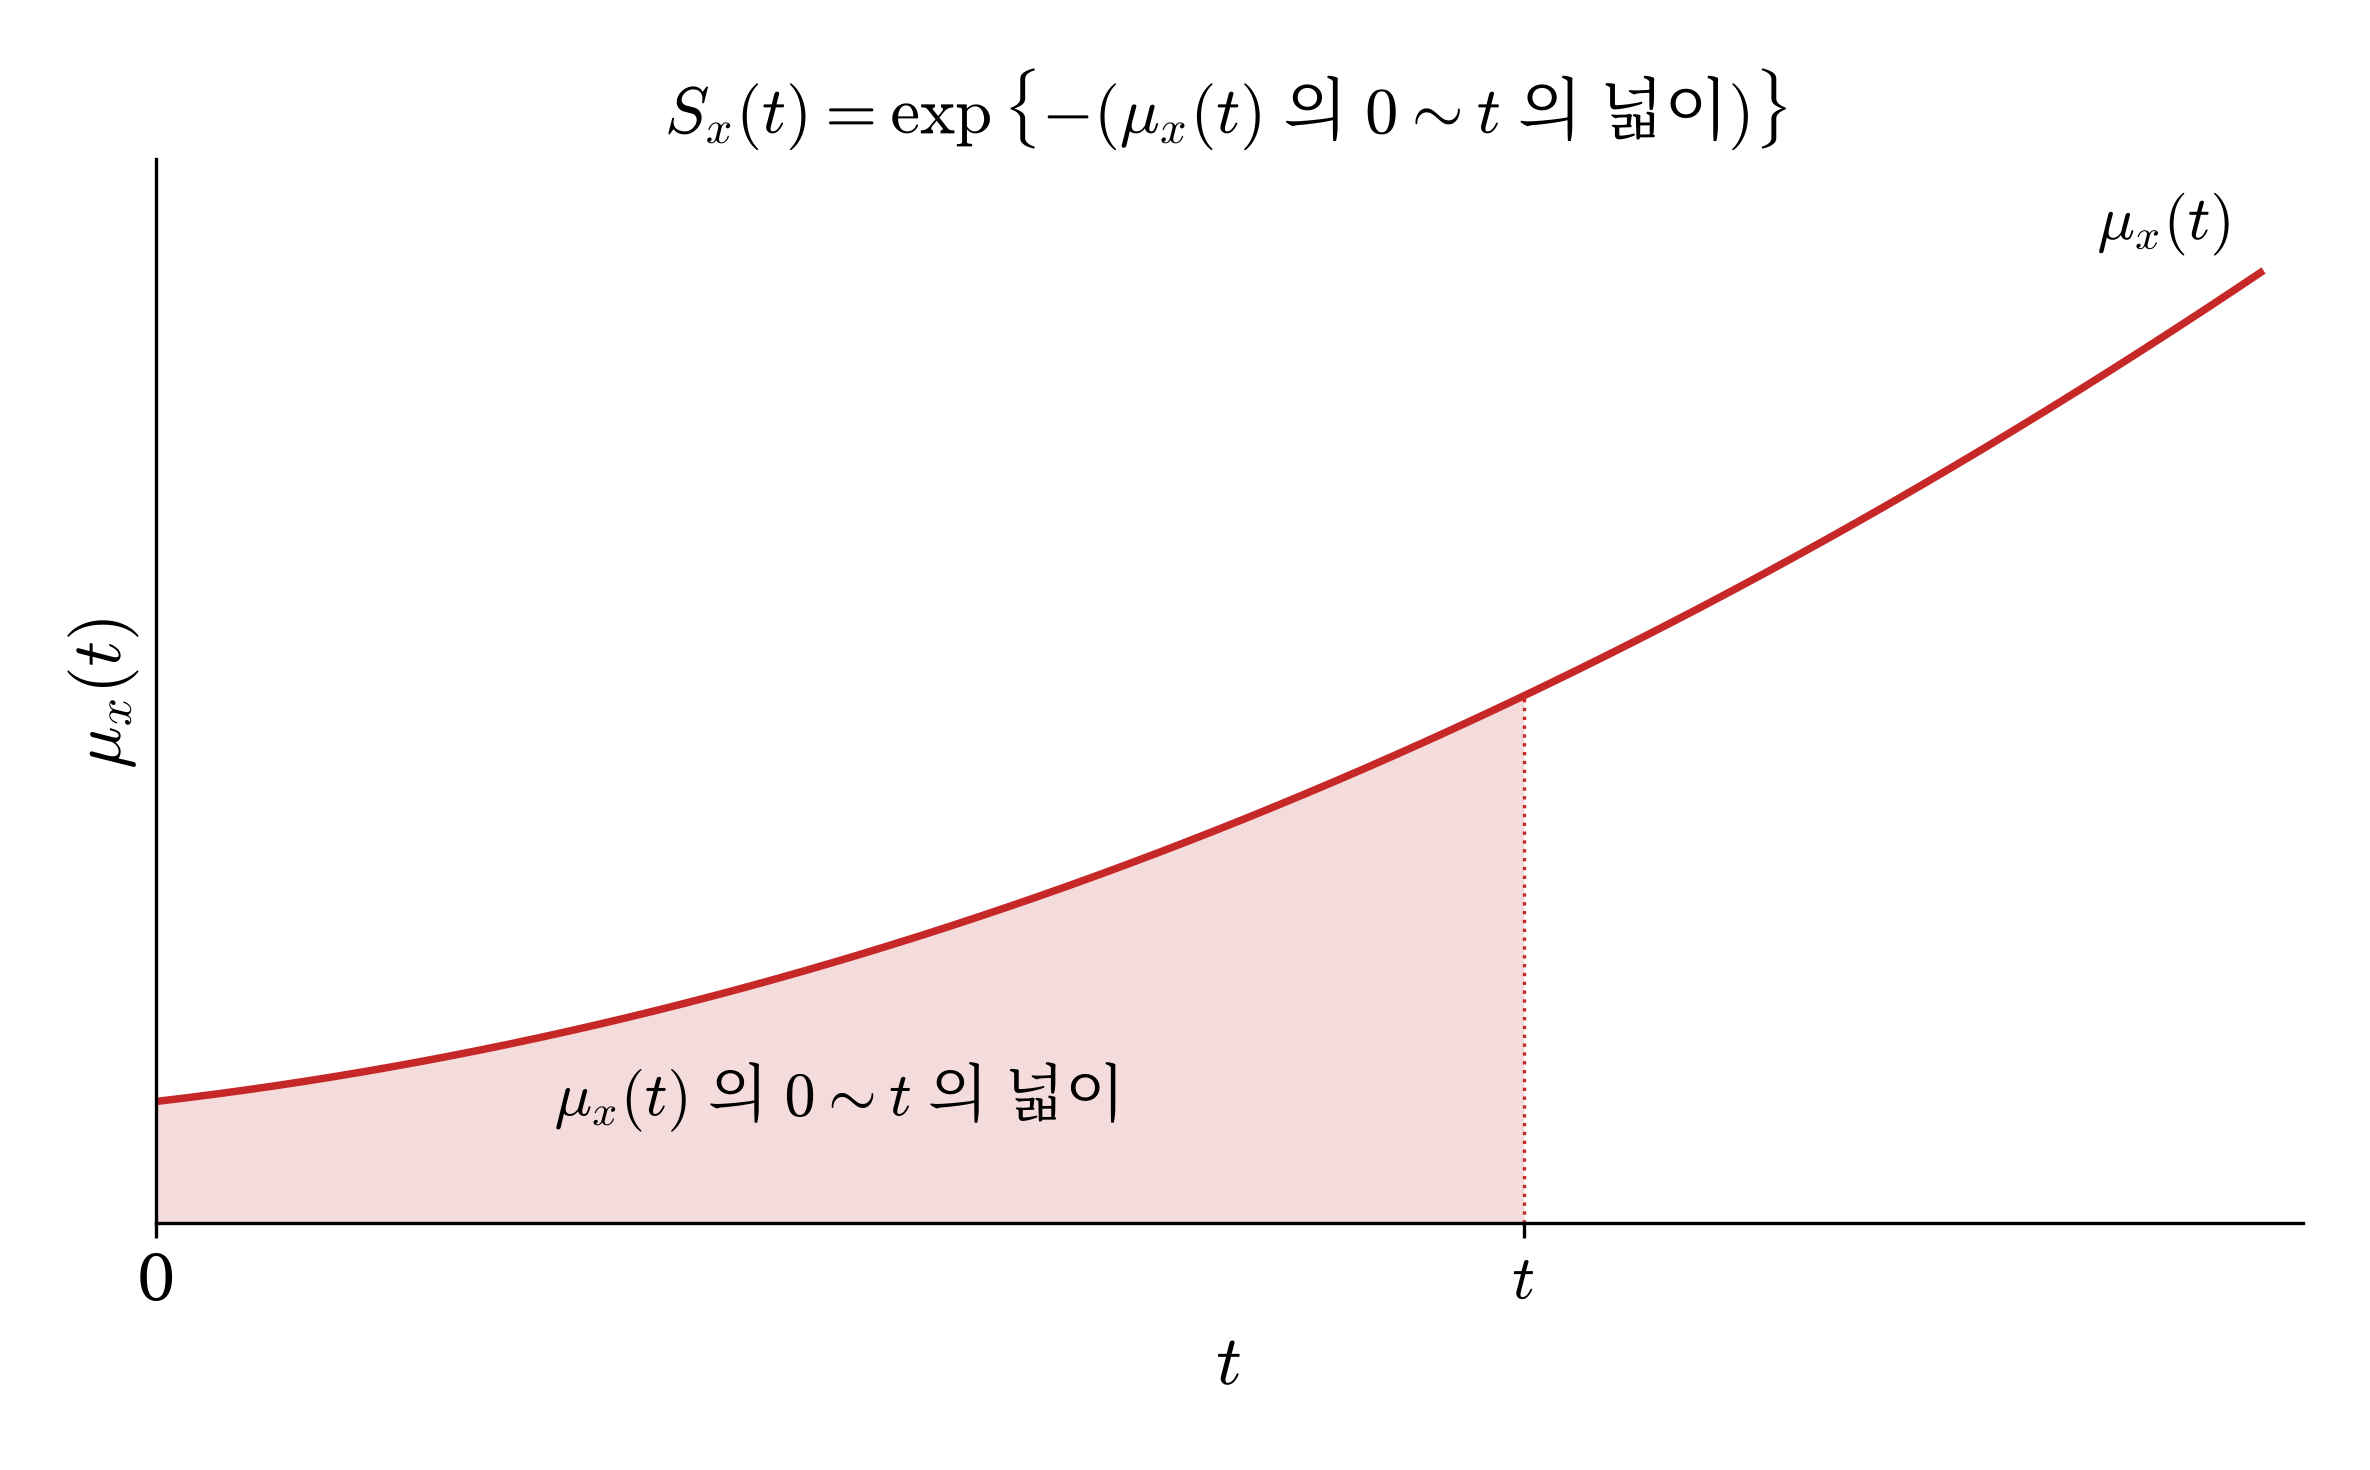
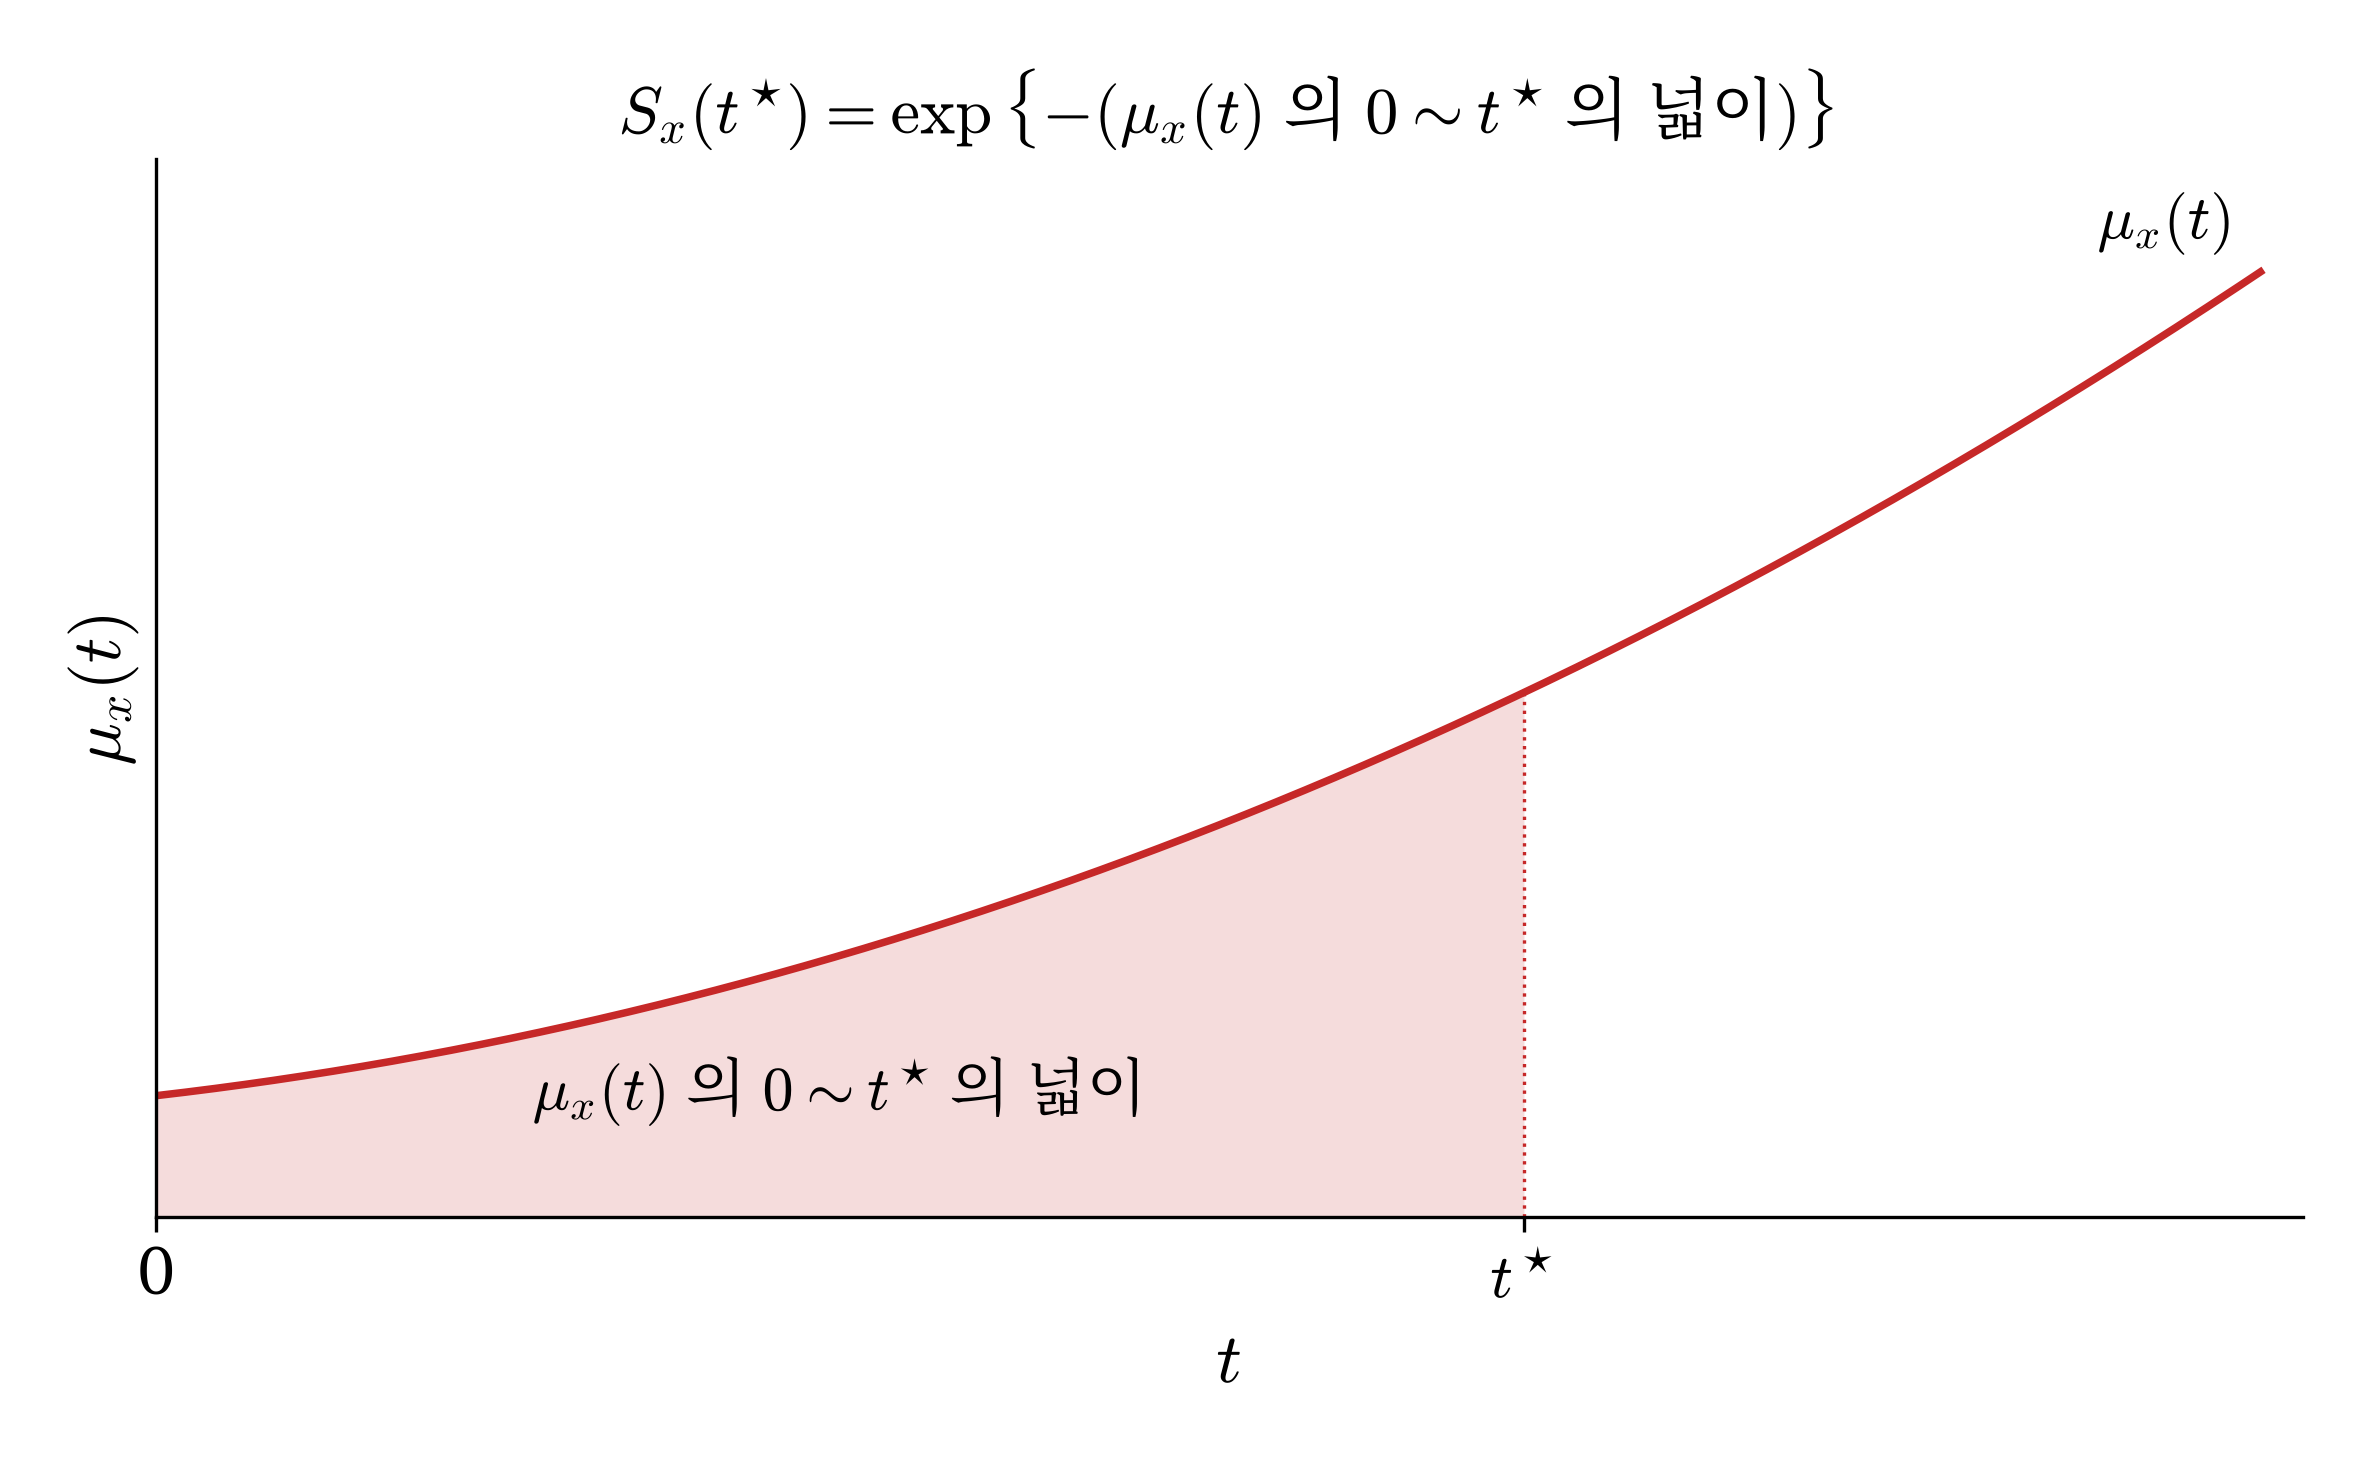
10wk-2 사력 관계식 표기 · 사력넓이 그림

diff --git a/docs/posts/10wk-2.html b/docs/posts/10wk-2.html
@@ -208,7 +208,7 @@ window.Quarto = {
 <h1>3. 계리사시험</h1>
 <p><code>-</code> 계리사시험 소개</p>
 <ul>
-<li>보험계리사 시험은 1차와 2차로 나뉜다. 1차에 합격한 뒤, 2차는 과목을 조금씩 붙여 모은다.</li>
+<li>보험계리사 시험은 1차와 2차로 나뉜다. 1차에 합격한 뒤, 2차를 응시한다.</li>
 </ul>
 <table class="caption-top table">
 <colgroup>
@@ -376,11 +376,11 @@ window.Quarto = {
 \end{aligned}
 \]</span></p>
 <ul>
-<li>그냥 “사망력 = 그 순간 죽을 것 같은 확률”로 정의하면 안되나?</li>
+<li>그냥 “사망력 = 그 순간 죽을 확률”로 정의하면 안되나?</li>
 </ul>
-<p><code>-</code> 사력과 생존함수의 관계 <span class="math display">\[S_x(t) = \exp\left\{-\int_0^t \mu_x(s)\,ds\right\}\]</span></p>
+<p><code>-</code> 사력과 생존함수의 관계 <span class="math display">\[S_x(t^\star) = \exp\left\{-\int_0^{t^\star} \mu_x(t)\,dt\right\}\]</span></p>
 <ul>
-<li><span class="math inline">\(\int_0^t \mu_x(s)\,ds\)</span> 는 사력 곡선의 <span class="math inline">\(0 \sim t\)</span> 의 넓이다. 그래서 <span class="math inline">\(S_x(t) = \exp\{-(\mu_x(t) \text{ 의 } 0 \sim t \text{ 의 넓이})\}\)</span> 로 읽는다. 넓이를 알면 적분 없이 <span class="math inline">\(S_x(t)\)</span> 가 나온다.</li>
+<li><span class="math inline">\(\int_0^{t^\star} \mu_x(t)\,dt\)</span> 는 사력 곡선의 <span class="math inline">\(0 \sim t^\star\)</span> 의 넓이다. 그래서 <span class="math inline">\(S_x(t^\star) = \exp\{-(\mu_x(t) \text{ 의 } 0 \sim t^\star \text{ 의 넓이})\}\)</span> 로 읽는다. 넓이를 알면 적분 없이 <span class="math inline">\(S_x(t^\star)\)</span> 가 나온다.</li>
 </ul>
 <div class="quarto-figure quarto-figure-center">
 <figure class="figure">

diff --git a/docs/index.html b/docs/index.html
@@ -250,7 +250,7 @@ Author
 </thead>
 <tbody class="list">
 
-<tr data-index="0" data-listing-date-sort="1793836800000" data-listing-file-modified-sort="1793845711906" data-listing-date-modified-sort="NaN" data-listing-reading-time-sort="12" data-listing-word-count-sort="2284" data-listing-title-sort="**10wk-2**: 계리사 기출문제 풀이 (1)" data-listing-filename-sort="10wk-2.qmd">
+<tr data-index="0" data-listing-date-sort="1793836800000" data-listing-file-modified-sort="1793848017840" data-listing-date-modified-sort="NaN" data-listing-reading-time-sort="12" data-listing-word-count-sort="2280" data-listing-title-sort="**10wk-2**: 계리사 기출문제 풀이 (1)" data-listing-filename-sort="10wk-2.qmd">
 <td>
 <span class="listing-date">Nov 5, 2026</span>
 </td>
